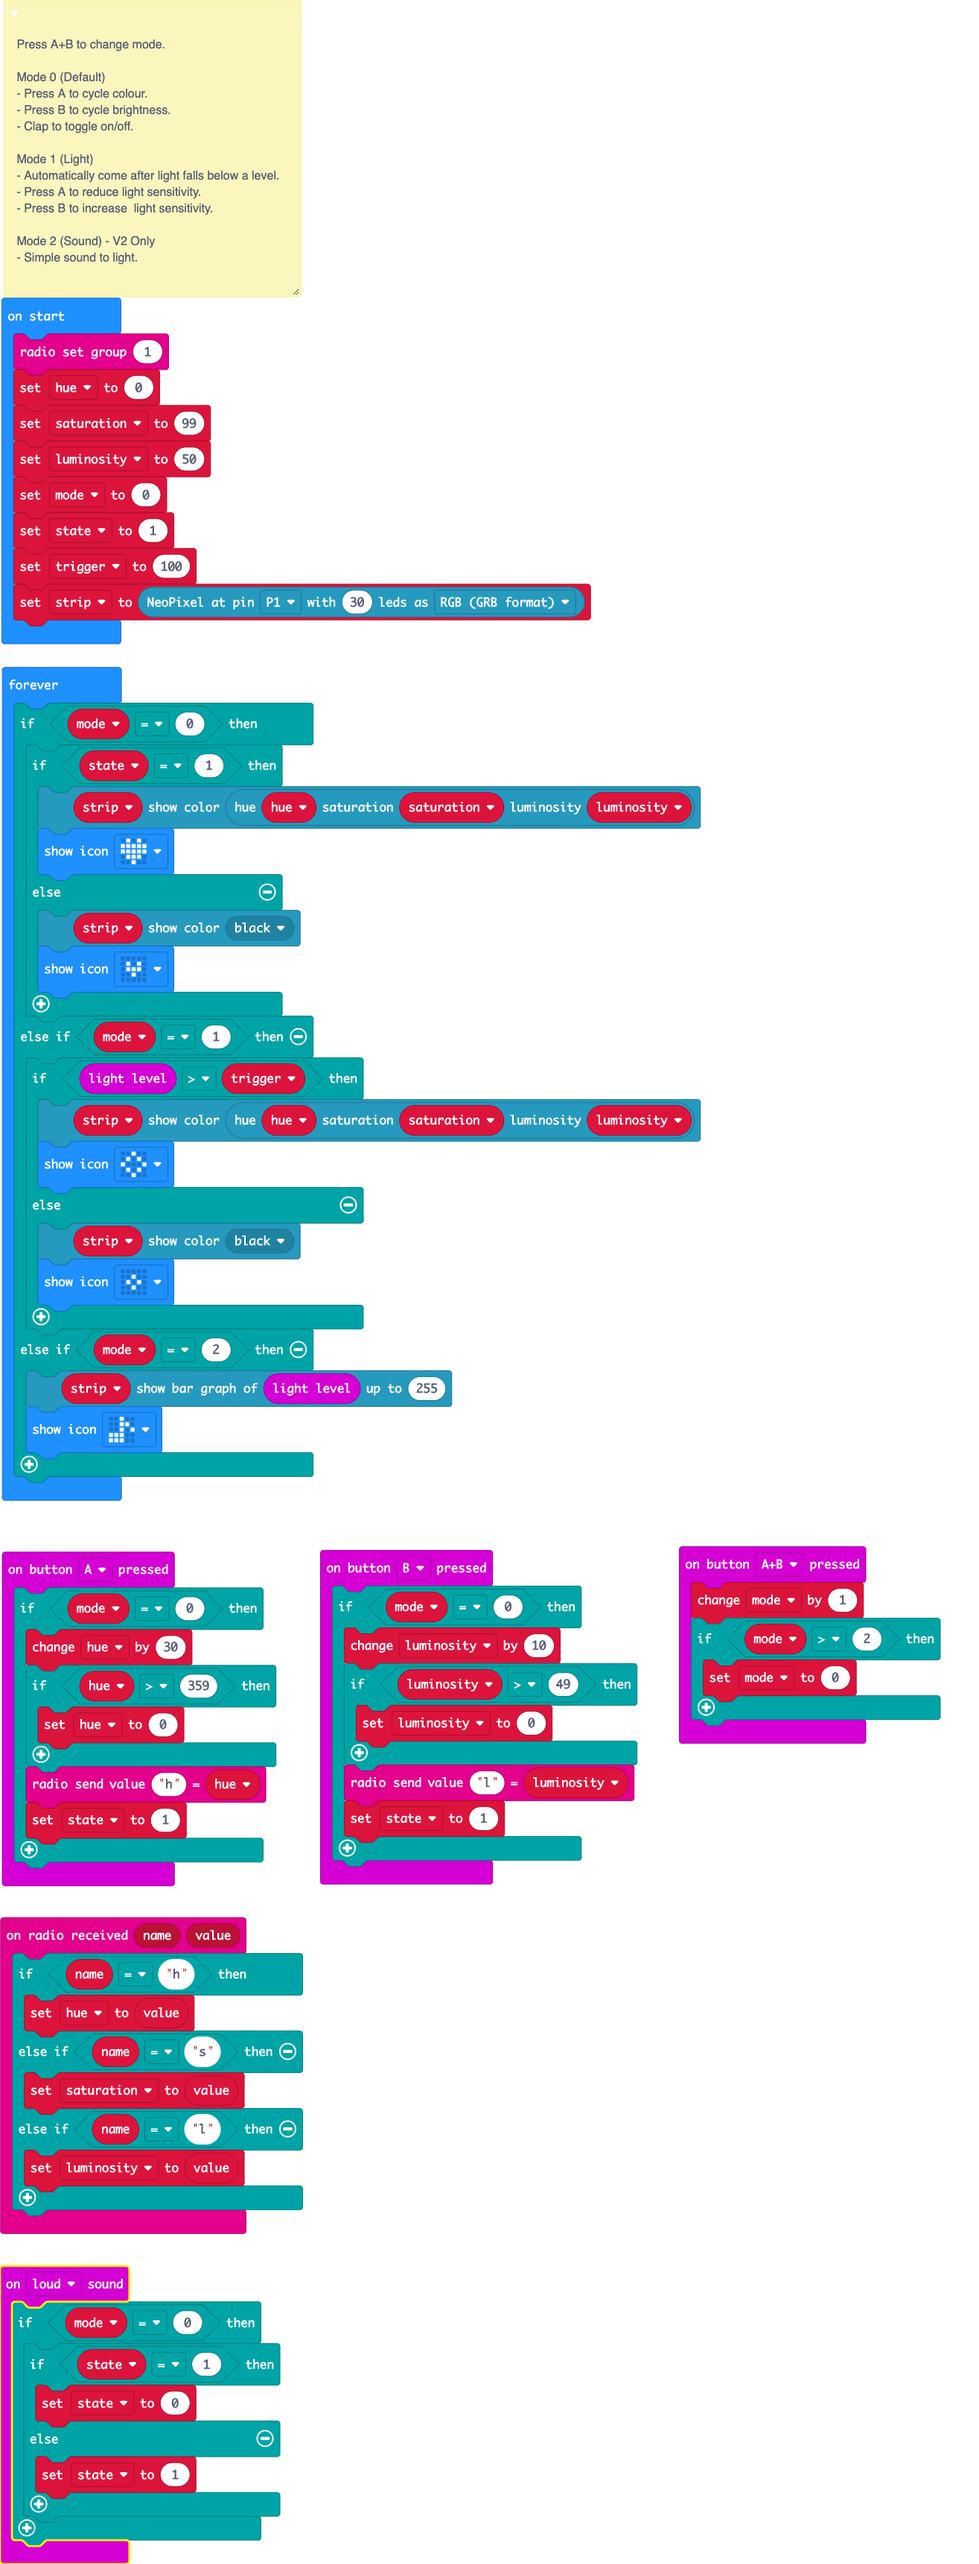
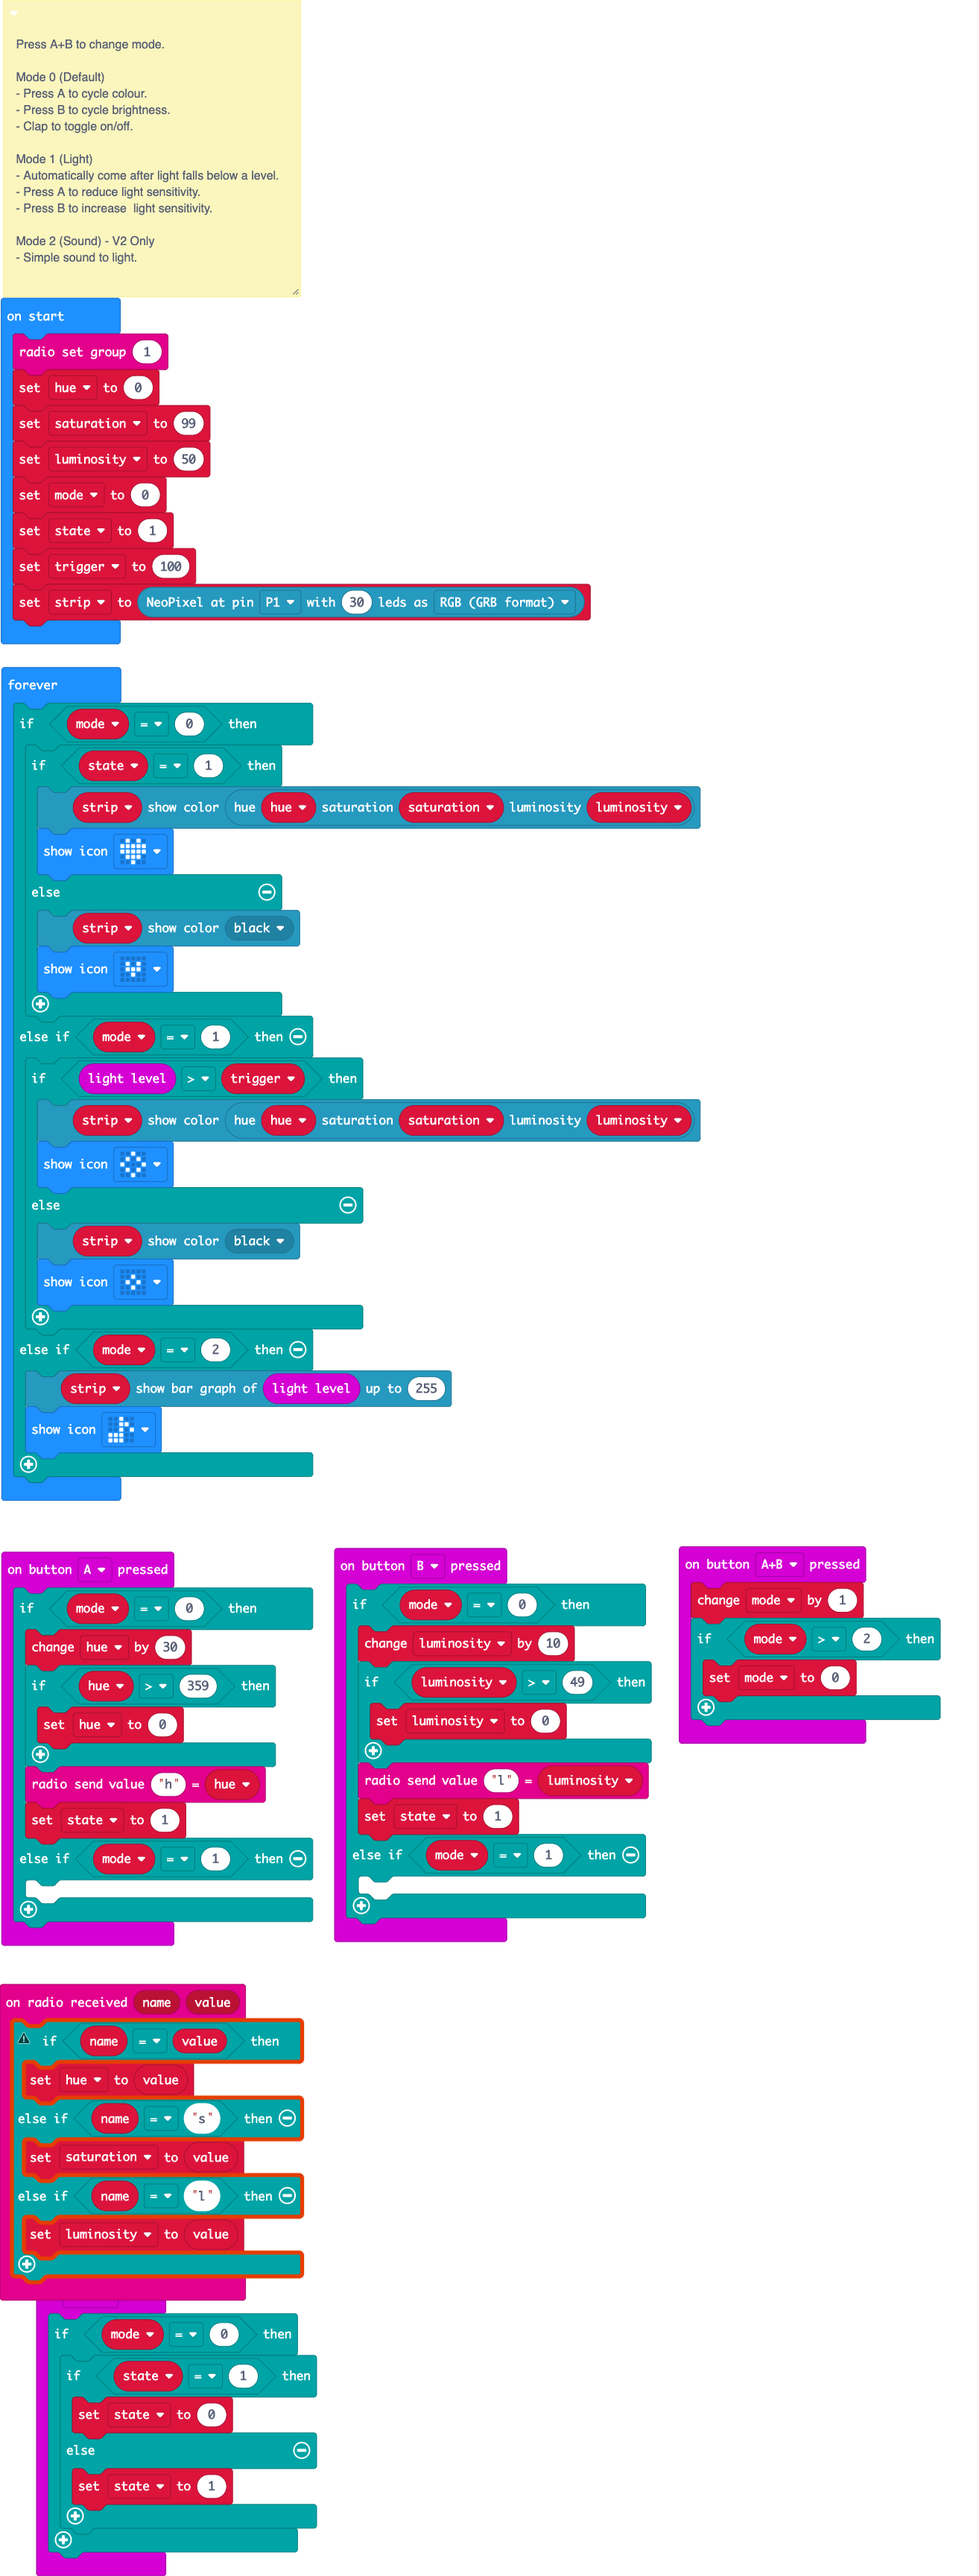
Update main.blocks, main.ts

Changed region(s): [[0.0, 0.0, 0.9673, 1.0]]

diff --git a/main.ts b/main.ts
@@ -6,6 +6,8 @@ input.onButtonPressed(Button.A, function () {
         }
         radio.sendValue("h", hue)
         state = 1
+    } else if (mode == 1) {
+    	
     }
 })
 input.onSound(DetectedSound.Loud, function () {
@@ -31,10 +33,12 @@ input.onButtonPressed(Button.B, function () {
         }
         radio.sendValue("l", luminosity)
         state = 1
+    } else if (mode == 1) {
+    	
     }
 })
 radio.onReceivedValue(function (name, value) {
-    if (name == "h") {
+    if (name == value) {
         hue = value
     } else if (name == "s") {
         saturation = value
